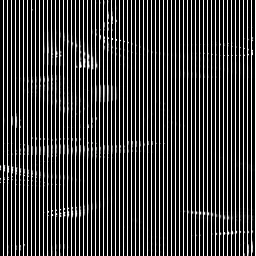
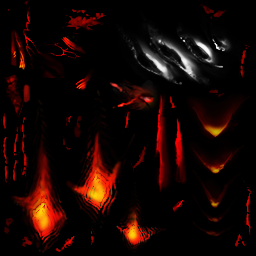
Valstrax: its glow texture from the ROM's texels, and its own material machines
- tex/9f7dea74f29c830b.webp (em086_00_add_NOMIP, MT format 7) re-saved from the
  ROM's block-linear texels, lossless and exact -- the pool held the striped DDS
  decode staged before buildlib's format-7 fix, the same fault as Teostra's.
  It is the red/orange sheet behind m02_angry and m04_breathe; both drew white
  stripes. A census of every monster format-7 texture finds no other stale one
  that is read (NullBlack differs in alpha only, bound where only RGB is used).
- ROM_STAGE_CLIPS takes a list of machines. uEm086_00 runs 0x10a1984 per
  material on the enrage predicate for m01_black, m02_angry, m03_eff and
  m05_eye (records +0xcb30/+0xcb48/+0xcb60/+0xcb90): start, Loop once start
  has run, end on calm, held. Slot 0, no spawn clear, so before the first rage
  each keeps its auto clip (rest: 'auto'). Teostra's single machine unchanged.
- ROM_SPAWN_CLIP pins m04_breathe (part 11, the Chest Effect row) to start held:
  its sets are picked by +0xcaf5 and run by actions, never by rage (0x10a12e0),
  so the row stands in for the action and shows the lit glow. The enraged
  fallback had given it [Loop, tired_Loop].

diff --git a/docs/render/monster.js b/docs/render/monster.js
@@ -552,10 +552,26 @@ export const ROM_RAGE_SET = {
 // the colour path reads the enrage predicate; the explosion does, only to post the enraged variant of
 // its event (0xf46234: ids 0x17..0x26, +1 when enraged). So the viewer shows the spawn colour in every
 // state and offers no Red -- the eruption is boarded as an effect to build later.
+//
+// VALSTRAX'S BREATHE LAYER IS NOT A RAGE LAYER. Raven, 2026-09-13: "Valstrax has effects issue, but I
+// see some rendering issues you may be able to take care of." uEm086_00's init (0x109e6a0) caches its
+// materials by MRL id -- m01..m06 carry ids 1..6 -- and its frame (0x10a1240) runs each one's
+// start/Loop/end set through the machine 0x10a1984 (see ROM_STAGE_CLIPS). XfB__I0__m04_breathe (id 4)
+// is the exception: it holds TWO sets, start/Loop/end at +0xcb78 and tired_start/tired_Loop/tired_end
+// at +0xcbc0, picked by the byte at +0xcaf5 (0x10a12e0) and run by the action ids at +0x73e0/+0x73e1 and
+// a flag word at +0x5c0 -- the enrage predicate 0x81670 is never read on that path. It is the one mesh
+// of part 11, the row Raven named "Chest Effect" (Off / On): with no actions in the viewer, the ROW is
+// the action, as ROM_SET_CLIP's row is Thunderlord's flag. So the material shows the glow LIT, which is
+// `start` on its last frame -- fTransparency 1.0, fAlbedoColor (0.875, 0.125, 0.125) -- because the lit
+// state has no clip of its own: `start` ramps 0 -> 1 over 80 frames, the machine then sets `Loop`, which
+// writes no fTransparency, and `end` ramps 1 -> 0. The auto `Loop` at load leaves the shipped 0, which
+// drew nothing when the row was On; the enraged fallback's [Loop, tired_Loop] drew the exhausted set's
+// dim flicker on Enraged.
 export const ROM_SPAWN_CLIP = {
   em043_05: { XfB__m02_body_k: 'Angry_Start' },   // Savage Deviljho: eyes and body glow, always lit
   em063_05: { XfB__m01_nenkin_arm_l: 'Red_to_Yellow', XfB__m02_nenkin_arm_r: 'Red_to_Yellow',
               XfB__m03_nenkin_body: 'Red_to_Yellow', XfB__m04_nenkin_tail: 'Red_to_Yellow' },
+  em086_00: { XfB__I0__m04_breathe: 'start' },    // Valstrax: the Chest Effect row, lit -- see above
 };
 // CLIPS SUPPRESSED FOR THE VIEWER. An AUTHORED deviation from the ROM, and the only one in the
 // clip path, so it is named rather than hidden inside a rule.
@@ -1785,40 +1801,67 @@ export function setClipFor(monId, groups){
 // finish -- which is why this keeps its own stage and clock instead of reading tState.
 // Raven, 2026-09-13, over a screenshot of the layers striped and lit at rest: "The stripped areas are
 // effects that are not modeled", then "Make both fixes for Teostra".
+//
+// VALSTRAX (uEm086_00) runs the same four stages ONE MACHINE PER MATERIAL, which is why a monster's entry
+// may be a list. Its init (0x109e6a0) gives each of m01_black, m02_angry, m03_eff and m05_eye (MRL ids 1,
+// 2, 3, 5) a 0x18-byte record -- material, start, Loop, end, stage, frames -- at +0xcb30, +0xcb48, +0xcb60
+// and +0xcb90, and its frame calls 0x10a1984 on each with the enrage predicate 0x81670 (0x10a1270,
+// 0x10a128c, 0x10a12a8, 0x10a12c4). 0x10a1984 is the Teostra machine on that record's own clock: start
+// on rage from stage 0, Loop once start's frames pass, end on calm from stage 2, then stage 0 with end
+// held. Two differences, both read: the clips go into SLOT 0 (setMatClip r1 = 0), and the init clears no
+// slots -- so before the first rage each material keeps its load-time AUTO clip (`rest: 'auto'`): Loop
+// on the three layers, and nothing on the eye, which carries no auto clip and sits on its shipped
+// constant. What the viewer gains is the ROM's transitions: the eye fades to black over start's 16
+// frames and back over end's, and a layer left by calm holds end's last frame rather than jumping back to
+// Loop. Not here: m04_breathe (see ROM_SPAWN_CLIP) and m06_heat, whose record at +0xcba8 runs on bit 1
+// of the flag word at +0x5c0 (0x10a1554), not on rage.
 export const ROM_STAGE_CLIPS = {
   em027_00: { mats: ['XfBAN_W_0__m01_effect01', 'XfBAN_W_0__m02_effect02', 'XfB__m03_Bombmode'],
               clips: ['Effect_Start', 'Effect_Loop', 'Effect_End'] },
+  em086_00: ['XfBA_E1__m01_black', 'XfB_W_0__m02_angry', 'XfB_N__EW_0__m03_eff', 'XfB_0__m05_eye']
+    .map(mat => ({ mats: [mat], clips: ['start', 'Loop', 'end'], rest: 'auto' })),
 };
-// One step of the machine for this root: `{ mats, clip, t0 }` -- the clip in slot 1 (null until the first
-// rage, as the spawn clear leaves it) and the wall second its time was zeroed -- or null where the monster
-// has no table. It advances only when the clock moves forward: the review shot and the fallback console
-// toggle call the stepper on clocks of their own, and those must not move the game's stage -- they are
-// shown the slot as it stood at the machine's last step, its origin moved onto their clock.
+const stageTables = monId => {
+  const t = monId && ROM_STAGE_CLIPS[monId];
+  return !t ? [] : Array.isArray(t) ? t : [t];
+};
+// One step of each of the monster's machines for this root: `[{ mats, clip, t0, rest }]` -- the clip in
+// the machine's slot (null until the first rage) and the wall second its time was zeroed -- or null where
+// the monster has no table. A machine advances only when the clock moves forward: the review shot and the
+// fallback console toggle call the stepper on clocks of their own, and those must not move the game's
+// stage -- they are shown the slot as it stood at the machine's last step, its origin moved onto their
+// clock.
 function stepStageMachine(root, tSec, state, monId){
-  const tbl = monId && ROM_STAGE_CLIPS[monId];
-  if (!tbl || !root || !root.userData) return null;
-  let s = root.userData.romStage;
-  if (!s || s.monId !== monId){
-    s = root.userData.romStage = { monId, mats: tbl.mats, stage: 0, clip: null, t0: 0, tLast: -Infinity, frames: {} };
-    // each clip's frame count, off the first cached material carrying it (0xe102c4 tries +0x14, +0x18, +0x1c)
-    for (const nm of tbl.clips){
-      for (const mat of tbl.mats){
-        let f = 0;
-        root.traverse(o => {
-          for (const m of matsOfMesh(o)){
-            if (f || !m || m.name !== mat) continue;
-            const c = ((m.userData && m.userData.rom && m.userData.rom.anim) || []).find(x => sameClip(x.name, nm));
-            if (c) f = c.frames;
-          }
-        });
-        if (f){ s.frames[nm] = f; break; }
-      }
+  const tbls = stageTables(monId);
+  if (!tbls.length || !root || !root.userData) return null;
+  let all = root.userData.romStage;
+  if (!all || all.monId !== monId)
+    all = root.userData.romStage = { monId, list: tbls.map(tbl => newStageMachine(root, tbl)) };
+  return all.list.map(s => stepOneStage(s, tSec, state));
+}
+function newStageMachine(root, tbl){
+  const s = { tbl, mats: tbl.mats, rest: tbl.rest || null, stage: 0, clip: null, t0: 0, tLast: -Infinity, frames: {} };
+  // each clip's frame count, off the first cached material carrying it (0xe102c4 tries +0x14, +0x18, +0x1c)
+  for (const nm of tbl.clips){
+    for (const mat of tbl.mats){
+      let f = 0;
+      root.traverse(o => {
+        for (const m of matsOfMesh(o)){
+          if (f || !m || m.name !== mat) continue;
+          const c = ((m.userData && m.userData.rom && m.userData.rom.anim) || []).find(x => sameClip(x.name, nm));
+          if (c) f = c.frames;
+        }
+      });
+      if (f){ s.frames[nm] = f; break; }
     }
   }
-  if (!(tSec >= s.tLast)) return { mats: s.mats, clip: s.clip, t0: tSec - (s.tLast - s.t0) };
+  return s;
+}
+function stepOneStage(s, tSec, state){
+  if (!(tSec >= s.tLast)) return { mats: s.mats, rest: s.rest, clip: s.clip, t0: tSec - (s.tLast - s.t0) };
   s.tLast = tSec;
   const ran = () => (tSec - s.t0) * MAT_FPS >= (s.frames[s.clip] || 0);
-  const set = (i, stage) => { s.clip = tbl.clips[i]; s.t0 = tSec; s.stage = stage; };
+  const set = (i, stage) => { s.clip = s.tbl.clips[i]; s.t0 = tSec; s.stage = stage; };
   const enraged = state === 'enraged';
   if (s.stage === 0){ if (enraged) set(0, 1); }
   else if (s.stage === 1){ if (ran()) set(1, 2); }
@@ -1893,8 +1936,8 @@ export function rageLadderParts(root){
 // a monster's own stage machine lights on rage (ROM_STAGE_CLIPS), whose clips carry no enrage name.
 export function enrageMaterials(root){
   const out = materialsWithClip(root, ENRAGE_CLIPS);
-  const tbl = root && root.userData && ROM_STAGE_CLIPS[root.userData.monId];
-  if (tbl) root.traverse(o => { for (const m of matsOfMesh(o)) if (m && tbl.mats.indexOf(m.name) >= 0) out.add(m.name); });
+  for (const tbl of stageTables(root && root.userData && root.userData.monId))
+    root.traverse(o => { for (const m of matsOfMesh(o)) if (m && tbl.mats.indexOf(m.name) >= 0) out.add(m.name); });
   return out;
 }
 // Materials that carry a CHARGE clip -- Khezu's Taiden family. Gates the Charged checkbox, which
@@ -1938,12 +1981,14 @@ function clipPicker(state, monId, tState, prev, levelClip, stage){
       (c && typeof c.name === 'string' && ban.has(c.name.toLowerCase())) ? { ...c, name: null } : c);
     let ci = -1;
     // A MATERIAL THE MONSTER'S OWN STAGE MACHINE DRIVES answers from that machine alone -- see
-    // ROM_STAGE_CLIPS: its one clip in slot 1 on the machine's clock, or before the first rage nothing,
-    // the material's authored values.
-    if (stage && rom && stage.mats.indexOf(rom.name) >= 0){
-      if (!stage.clip) return -1;
-      const i = clips.findIndex(c => sameClip(c.name, stage.clip));
-      return i >= 0 ? [[i, stage.t0]] : -1;
+    // ROM_STAGE_CLIPS: its one clip on the machine's clock, or before the first rage what the spawn left
+    // there -- nothing, the material's authored values (Teostra clears its slots), or the load-time auto
+    // clip (`rest: 'auto'`, Valstrax clears none).
+    const machine = stage && rom && stage.find(s => s.mats.indexOf(rom.name) >= 0);
+    if (machine){
+      if (!machine.clip) return machine.rest === 'auto' ? clips.findIndex(c => c.auto) : -1;
+      const i = clips.findIndex(c => sameClip(c.name, machine.clip));
+      return i >= 0 ? [[i, machine.t0]] : -1;
     }
     // A SPAWN-PINNED material ignores the rage state entirely -- see ROM_SPAWN_CLIP.
     if (pin && rom.name && pin[rom.name])
